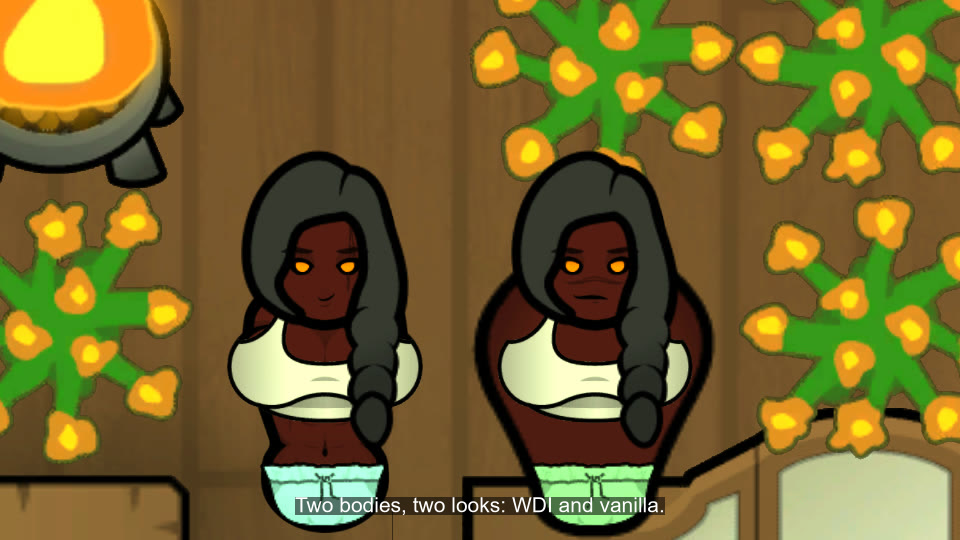
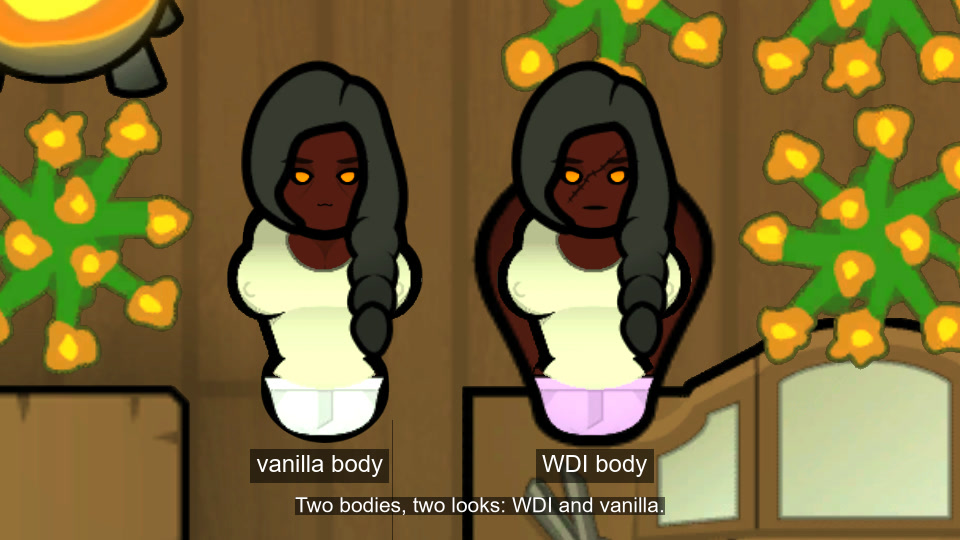
Gallery shot 2 v21b: crop, gene labels, subtitle; STATUS to-do step 1 done

diff --git a/STATUS.md b/STATUS.md
@@ -21,7 +21,7 @@ tested_on: "2026-11-08 pickle 5cb9ad6"
 code_review_sha: 5cb9ad6c9cbf9e51ae50f01c7bc66274c9ebc2c6
 remaining:
   - "owner 2026-11-17: no verdict on any gallery image before ALL images are ready (plan 2 included); then send the five subtitled images in one message. No ticket open. Open design asks, no code before 1.0.0 is out: sex gene and body texture resolver in Docs/SEX-GENDER-DESIGN.md (ships 1.1.0), BiB_Furry for CoKK (1.1.0, defName provisional), sex Pickle steps are BiB steps (PiT deleted its copies), fallback order of missing textures to confirm, Biotech Body_* genes to check, Neutral profile word open. Peers told: SaB, PiT, CoKK, VTW (build mounted, e5ab059)."
-  - "TO DO before the one owner review (GALLERY.md 12b, no image to the owner until all done): (1) ticket 5378 (shot 2 v21b beard none, evidence Inbox/gallery-v21b): read, crop x 500 y 200, burn gene labels WDI body and vanilla body under the pawns (ffmpeg drawtext per pawn in a scratch dir, then Add-Subtitle.ps1 from that intermediate; Art/Gallery-clean stays the clean crop), rescore; (2) shot 4 labels in Art/Gallery were burned with short gene labels, redo with full pack names (UNAGI Facial Animation, Nice Facial Animation, Facial Animation - Retexture, Reel Facial Animation Textures); (3) shot 6: Quill head offset (NSB NEUTRES-TETE, not BiB), recompose with NSB pawns without Quill, check the ground is not read as water; (4) shotlist v21 via write-shotlist: combinations shot with gene names (pawns outside NSB need owner validation, ask when the scenario is written), Genes inspect tab shot (steps: I select, I open the hidden Genes inspect tab, needs nelim.pickletools.inspecttabs in the map, tab step never played, studio mode may hide the pane) and Mod options page shot (I open the mod options page of the mod), global genes and packs in subtitles and Steam text; (5) score-gallery on all, burn subtitles, one message to the owner with all candidates. Numbering skips 3 (dropped). PiT VEFA answer: no single face, owner never named a pawn, decision taken by the director (Nice FA face)."
+  - "TO DO before the one owner review (GALLERY.md 12b, no image to the owner until all done): (1) DONE 2026-11-17: ticket 5378 (shot 2 v21b, exit 0, 1 passed) read, crop 960x540 x 500 y 290 (y 200 put the feet on the subtitle band), labels "vanilla body" (left) and "WDI body" (right) burned, subtitle "Two bodies, two looks: WDI and vanilla.", Art/Gallery-clean and Art/Gallery written; both pawns same Hulk Female shirt/pants (pants white vs pink), no beard; rescore still to do in step (5); (2) shot 4 labels in Art/Gallery were burned with short gene labels, redo with full pack names (UNAGI Facial Animation, Nice Facial Animation, Facial Animation - Retexture, Reel Facial Animation Textures); (3) shot 6: Quill head offset (NSB NEUTRES-TETE, not BiB), recompose with NSB pawns without Quill, check the ground is not read as water; (4) shotlist v21 via write-shotlist: combinations shot with gene names (pawns outside NSB need owner validation, ask when the scenario is written), Genes inspect tab shot (steps: I select, I open the hidden Genes inspect tab, needs nelim.pickletools.inspecttabs in the map, tab step never played, studio mode may hide the pane) and Mod options page shot (I open the mod options page of the mod), global genes and packs in subtitles and Steam text; (5) score-gallery on all, burn subtitles, one message to the owner with all candidates. Numbering skips 3 (dropped). PiT VEFA answer: no single face, owner never named a pawn, decision taken by the director (Nice FA face)."
   - "shot 2 v21 (director decision per GALLERY.md, 2026-11-17): Hulk Female clone pair Miel (BiB_BodyWdi) and Mira (BiB_BodyVanilla), Nice FA face, Apparel_BasicShirt dyed and Apparel_Pants (no VTW patched apparel); ticket c8d5 filed (label gallery shot 2 v21 Hulk clone shirt pants), evidence Inbox/gallery-v21. On RUN_DONE: read, crop (x 500 y 200), burn gene labels WDI body and vanilla body under the pawns plus the subtitle, rescore. Image 4 labels: full pack names (owner 2026-11-17: gene labels not clear). Owner asks still to fold into shotlist v21: combinations shot, genes window and mod options page (PiT steps exist), global genes and packs in the text. Single final review rule (GALLERY.md 2026-11-08): no more images to the owner before the whole gallery is finished."
   - "body pack lot 1 confirmed for 1.1.0 (owner 2026-11-17): Erin's Body, UNAGI body, Beautiful Bodies, FemaleBB, Malang Bodies, Compatible Body2, Realistic Body, Scrubdaddy bodies, details in BACKLOG.md; PiI study asked, nothing coded before 1.0.0 is out."
   - "gene renames 2026-11-17 (owner): BiB_FaceRetexture to BiB_FaceFARetexture, BiB_VanillaBody to BiB_BodyVanilla, BiB_WdiBody to BiB_BodyWdi (not published, no save migration); old names remain in older lines below. Replay tickets owed for 03, 04, 05, 09, 11, 14, 16 before publication; VTW, SaB, CoKK, PiT told. Next: shotlist v21 (owner asks: gene labels under pawns on 2 and 4, a combinations shot 7 with gene names, genes window and mod options page via PiT steps, global genes vs mod packs in the text), body packs study asked to PiI for 1.1.0 lots."
